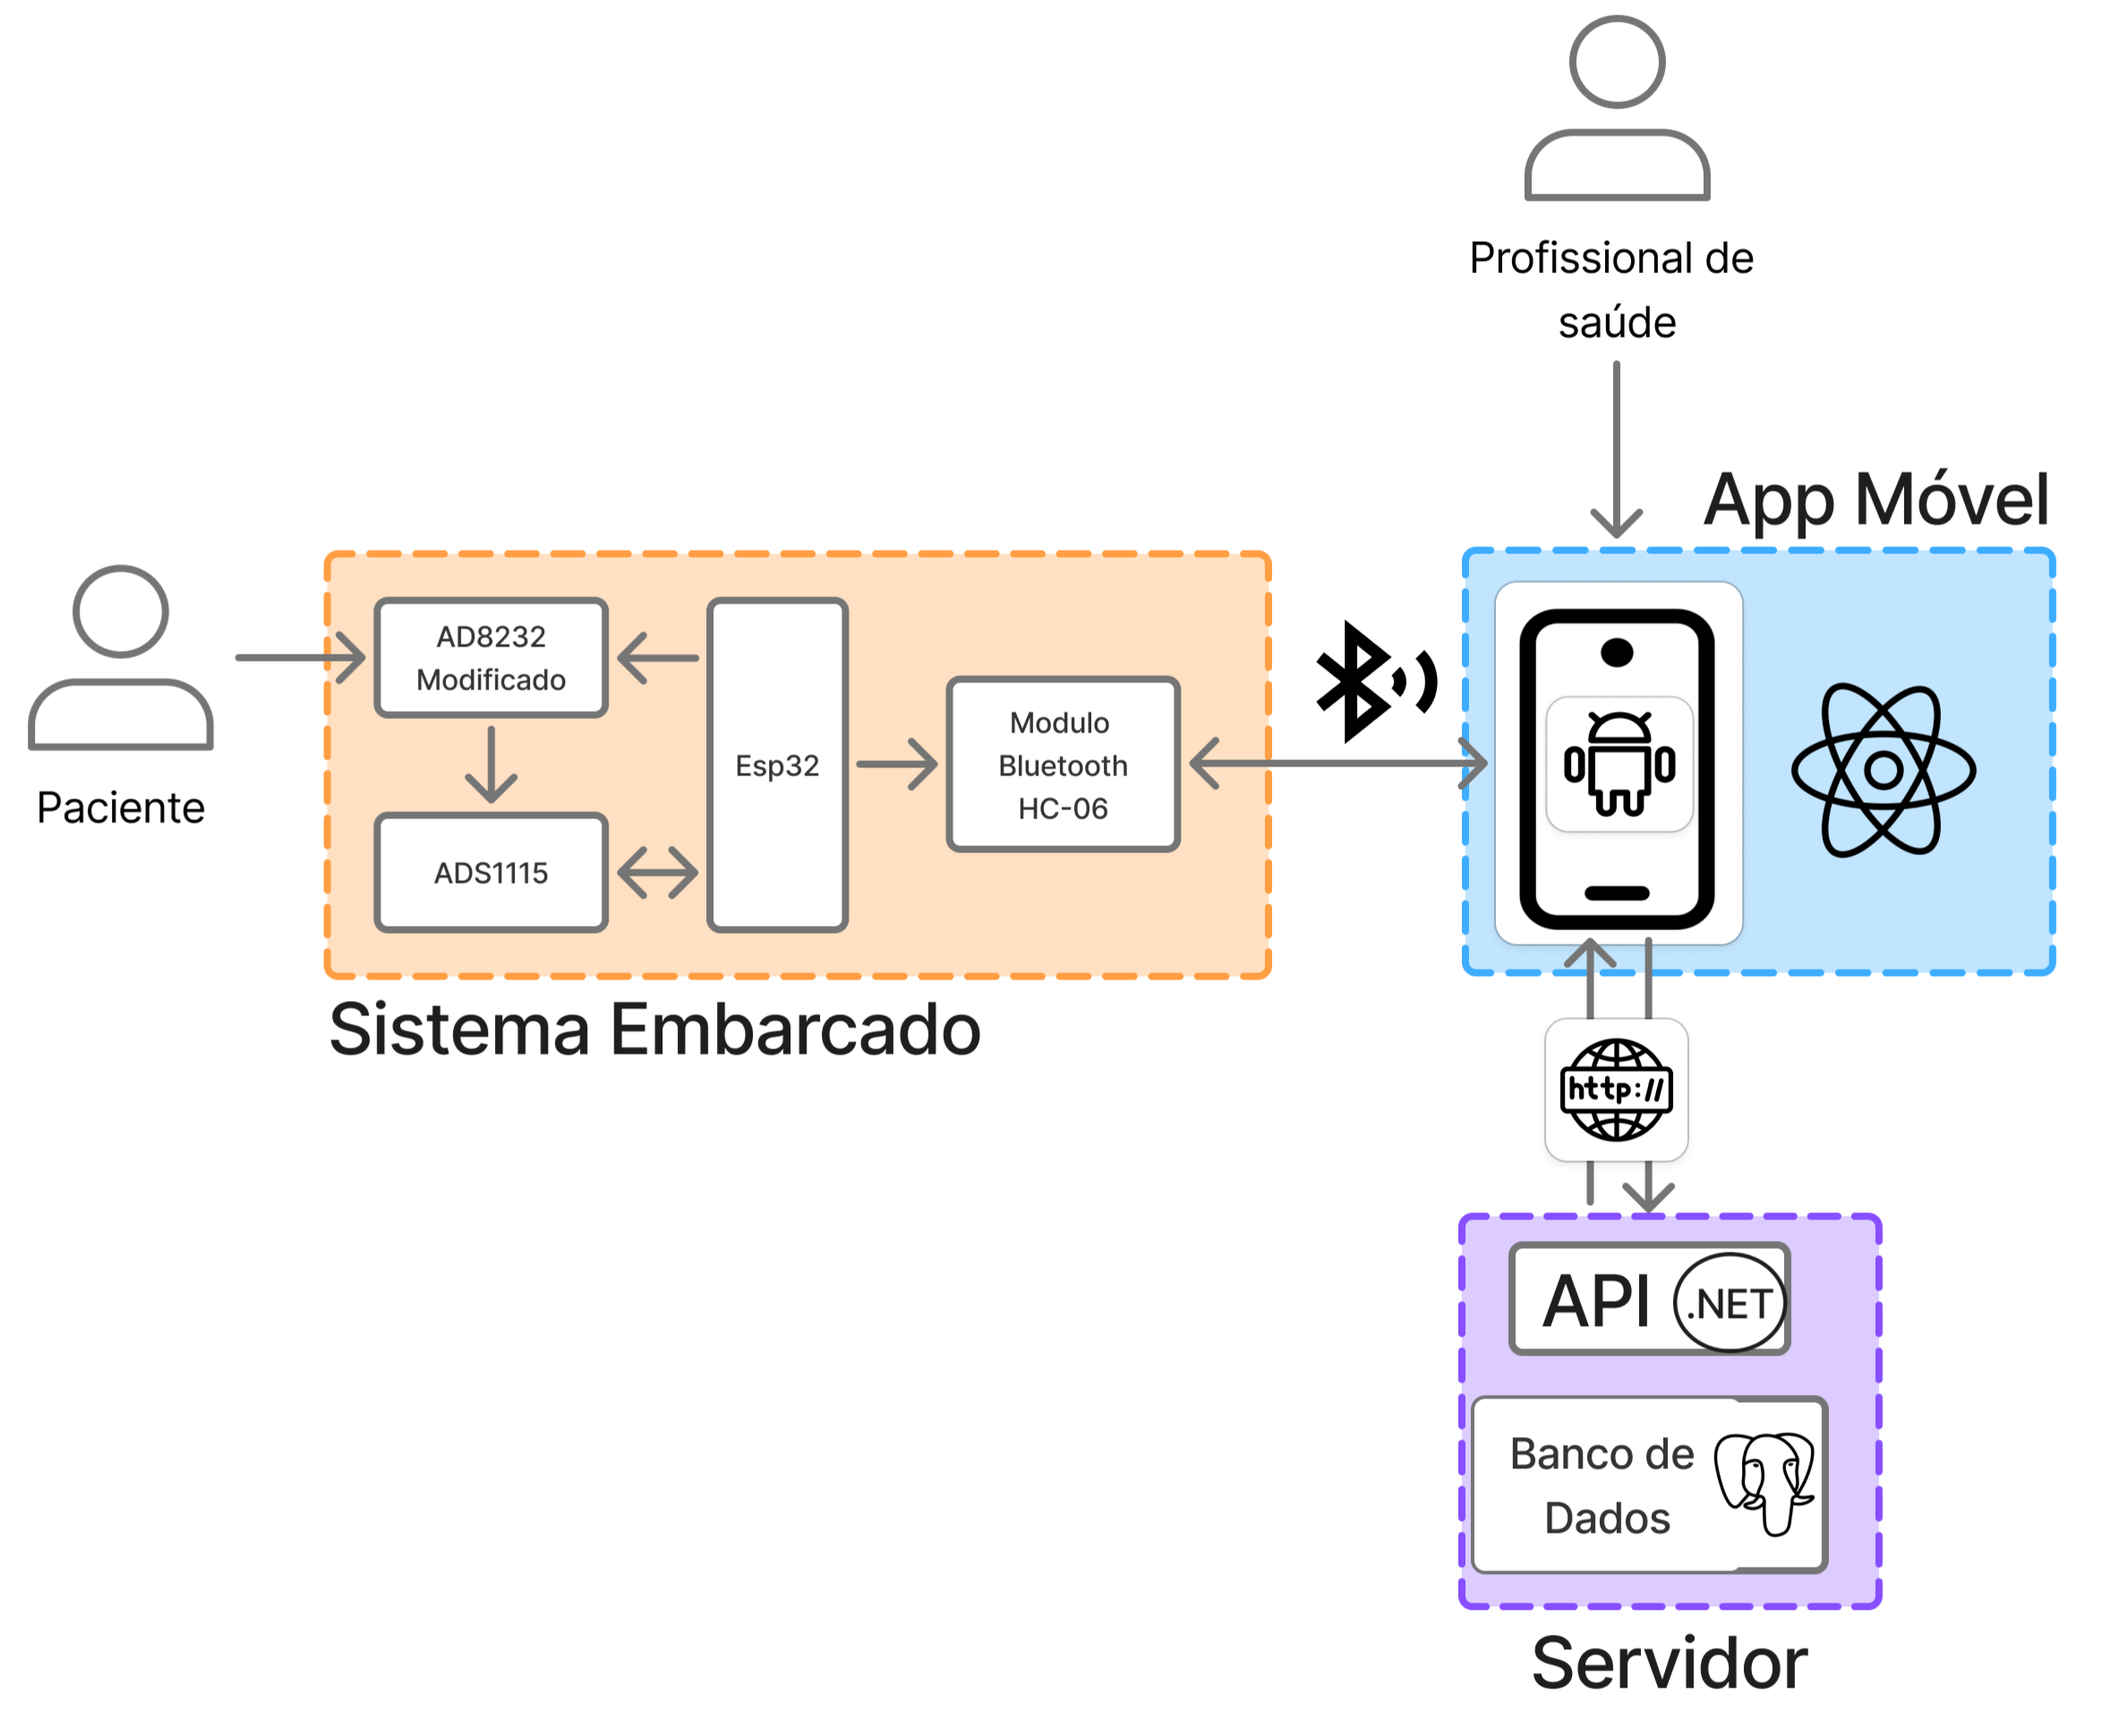
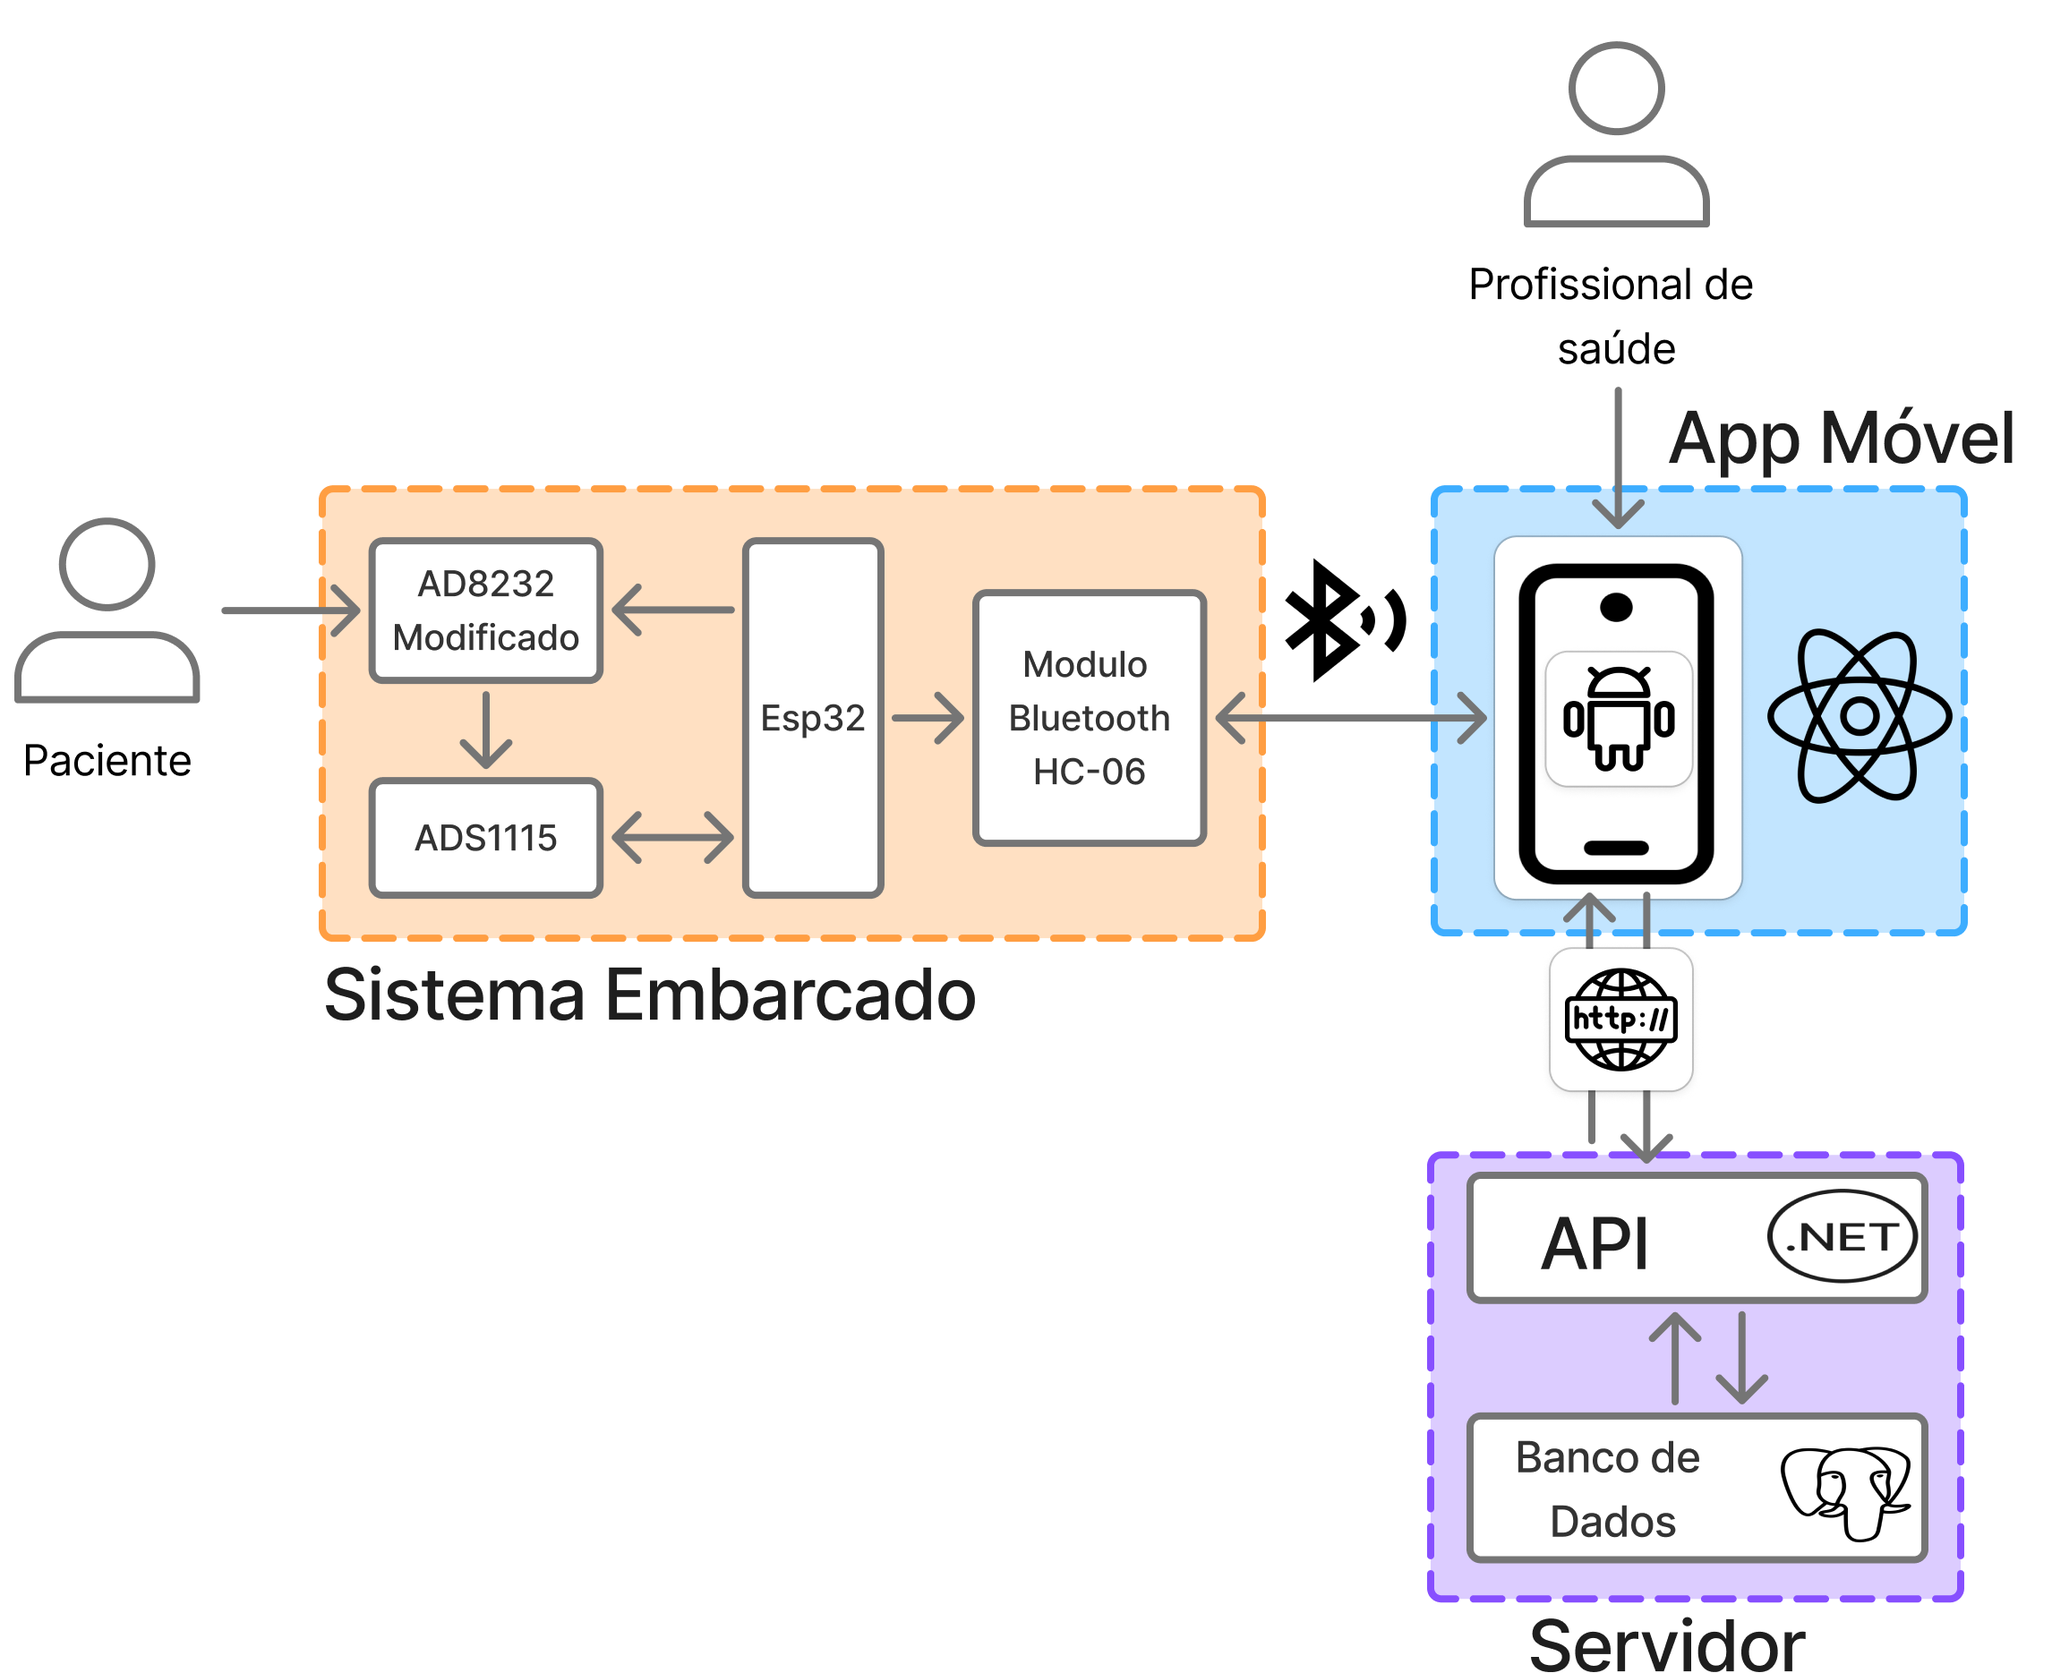
Figuras de metodologia revisadas

Changed region(s): [[0.0, 0.0, 0.9913, 1.0]]

diff --git a/capitulos/cap-metodologia.tex b/capitulos/cap-metodologia.tex
@@ -28,27 +28,46 @@ O ``projeto'' é um agrupamento de dispositivos e aplicações que se comunicam 
 
 O componente central do PRISM é o ``Nó de Pesquisa Interoperável'' (NPI), se trata de sistema que gerencia a autenticação, o armazenamento, a validação e o acesso aos dados requerido pelo PRISM para promover o compartilhamento dos dados e uso dos entre aplicações de projetos e outros NPIs, agindo  como um nó moderador da rede.
 
-As Figuras \ref{fig:projetoBase}, \ref{fig:identificacao} e \ref{fig:reducaoPrism} apresentam o processo de redução do PRISM aplicado a um projeto um sistema de captura de biossinais de sEMG.
+Para exemplificar o processo de agrupamento de componentes e módulos
+de uma pesquisa segundo a redução proposta pelo PRISM, adota-se como
+caso de estudo o projeto de sEMG utilizado neste trabalho, representado
+pela Figura \ref{fig:projetoBase}. Como esse projeto é descrito por um
+conjunto extenso de diagramas que detalham seu funcionamento, faz-se
+necessária a elaboração de uma representação unificada capaz de
+evidenciar todos os pontos de troca de dados entre seus componentes.
 
 \begin{figure}[htb]
-    \caption{Diagrama base do projeto desenvolvido neste trabalho}
-	\label{fig:projetoBase}
-    \includegraphics[width=\textwidth]{figuras/metodologia/pre-adaptacao.png}%% Dimensões e 
-	\fonte{}
+    \caption{Representação de um projeto}
+    \label{fig:projetoBase}
+    \includegraphics[width=\textwidth]{figuras/metodologia/pre-adaptacao.png}
+    \fonte{}
 \end{figure}
+
+A partir desses diagramas, agrupam-se os componentes do projeto
+conforme as categorias de dispositivo, aplicação e nó de pesquisa
+apresentadas anteriormente, conforme ilustra a Figura
+\ref{fig:identificacao}.
 
 \begin{figure}[htb]
     \caption{Identificação dos componentes de acordo com o PRISM}
-	\label{fig:identificacao}
-    \includegraphics[width=\textwidth]{figuras/metodologia/identificacao.png}%% Dimensões e 
-	\fonte{}
+    \label{fig:identificacao}
+    \includegraphics[width=\textwidth]{figuras/metodologia/identificacao.png}
+    \fonte{}
 \end{figure}
+
+O agrupamento resultante, exibido na Figura \ref{fig:reducaoPrism},
+evidencia as principais comunicações entre os componentes e permite
+identificar possíveis pontos de integração entre o projeto e o NPI
+(Nó de Pesquisa Interoperável). Dessa forma, estruturas complexas
+de projetos compartilhados entre laboratórios podem ser representadas
+de maneira mais simples, como apresentado na Figura
+\ref{fig:modelo-proposto-fig}.
 
 \begin{figure}[htb]
     \caption{Representação do projeto após redução ao PRISM}
-	\label{fig:reducaoPrism}
-    \includegraphics[scale=0.25]{figuras/metodologia/convertido.png}%% Dimensões e 
-	\fonte{}
+    \label{fig:reducaoPrism}
+    \includegraphics[width=\textwidth]{figuras/metodologia/convertido.png}
+    \fonte{}
 \end{figure}
 
 \section{Coleta de dados}\label{sec:coletaDeDados}

diff --git a/capitulos/cap-experimentos-resultados.tex b/capitulos/cap-experimentos-resultados.tex
@@ -12,7 +12,7 @@ Para testar a hipótese de interoperabilidade através da troca de dados estrutu
     \captionsetup{width=1\textwidth}
     \caption{Estrutura institucional simulada para validação do PRISM.}
     \label{fig:estruturaSimulada}
-    \includegraphics[scale=0.12]{figuras/Desenvolvimento/visaoGeral/estrutura-simulada.png}
+    \includegraphics[width=\textwidth]{figuras/Desenvolvimento/visaoGeral/estrutura-simulada.png}
     \fonte{}
 \end{figure}
 
@@ -22,7 +22,7 @@ Dentro desse cenário, este trabalho estrutura o fluxo de consumo dos dados de p
 \captionsetup{width=1\textwidth}
 \caption{Fluxo de dados pretendido entre as instituições simuladas.}
 \label{fig:fluxo-simulado}
-\includegraphics[scale=0.12]{figuras/Desenvolvimento/visaoGeral/fluxo-simulado.png}
+\includegraphics[width=\textwidth]{figuras/Desenvolvimento/visaoGeral/fluxo-simulado.png}
 \fonte{}
 \end{figure}
 
@@ -227,9 +227,6 @@ A documentação completa da API --- com todos os \textit{endpoints}, parâmetro
 % ----------------------------------------------------------------------
 
 A troca de dados entre NPIs é o momento em que a hipótese central deste trabalho aparece em ato: dois nós autônomos, possivelmente operados por instituições distintas, devem reconciliar seus acervos de pesquisa sem perder semântica clínica e sem violar a soberania local sobre os dados. Nesta subseção, descreve-se o protocolo construído para essa reconciliação. Adota-se a convenção de que o NPI-A é o nó \textit{produtor}, aquele que detém a coleta original, e o NPI-B é o nó \textit{consumidor}, que solicita uma cópia parcial ou completa daquele acervo. Essa nomenclatura é assimétrica por escolha: o protocolo implementado segue o modelo \textit{pull}, no qual o consumidor é sempre o iniciador da transferência, conforme se justifica nas sub-subseções seguintes.
-
-% --- 4.2.5.1 ---
-\subsubsection{Descoberta e \textit{handshake} entre nós}
 
 A descoberta entre NPIs ocorre em dois tempos. O primeiro é administrativo: o operador do NPI-B registra previamente, em sua tabela local de nós conhecidos, o endereço (URL) e o certificado digital esperado do NPI-A. O segundo tempo é dinâmico e reusa integralmente o protocolo de identificação descrito na Subseção~\ref{subsec:NPIMiddleware} e ilustrado pelas Figuras~\ref{fig:auth-fase-1}, \ref{fig:auth-fase-2} e \ref{fig:auth-fase-3}: ao receber a primeira requisição do nó remoto, o NPI-B percorre as três fases ali detalhadas (abertura de canal, identificação por \textit{fingerprint} de certificado e desafio-resposta), só admitindo a continuidade da troca caso o estado registrado seja \textit{Authorized}.
 

diff --git a/main.tex b/main.tex
@@ -236,9 +236,8 @@
 \begin{arquivosdeapendices}%% Os arquivos de apêndices devem se incluídos neste ambiente - Não comente esta linha
     \partapendices%% Página de início dos apêndices - adiciona uma página com o título Apêndices
     \include{./PosTexto/apendice-diagramas-sequencia}%% Apêndice - Comente para remover este item
-
-  \include{./PosTexto/apendice-ref-api}%% Apêndice - Comente para remover este item
-  \include{./PosTexto/apendice-telas}%% Apêndice - Comente para remover este item
+    \include{./PosTexto/apendice-ref-api}%% Apêndice - Comente para remover este item
+    \include{./PosTexto/apendice-telas}%% Apêndice - Comente para remover este item
     \include{./PosTexto/apendice-diagramas-banco}%% Apêndice - Comente para remover este item
 \end{arquivosdeapendices}%% Não comente esta linha
 
